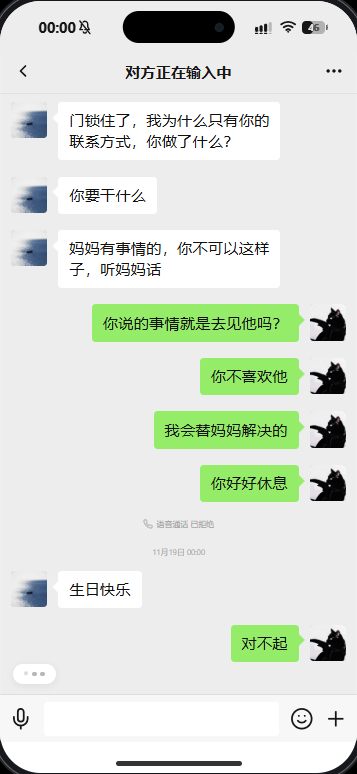
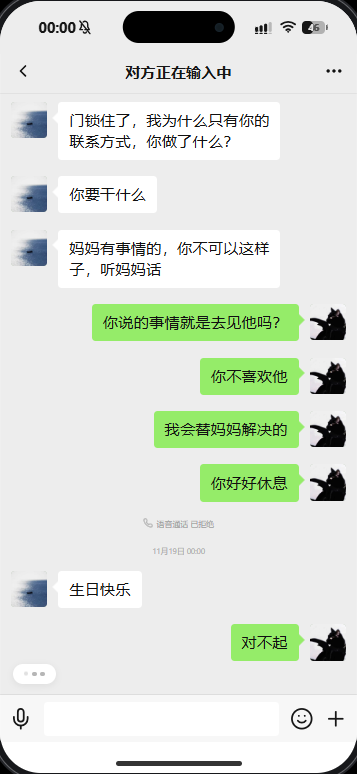
Keep moments out of the chat thread so left's first message stays the owner's
- the left moment shares its title with the chat, so once unlocked it rendered
  as the first bubble of the conversation; the thread now filters posts
- first message reads 2039-09-10 20:41, owner, 为什么不让我进去呢？

diff --git a/tests/finale.spec.ts b/tests/finale.spec.ts
@@ -91,6 +91,10 @@ test("finale flow: locked chat, new moment, midnight clock and scripted reply", 
   await page.getByRole("button", { name: "打开微信", exact: true }).click();
   await page.locator(".wx-chat-row").filter({ hasText: "left" }).click();
   await expect(page.locator(".skin-bubble").last()).toContainText("生日快乐");
+  // 会话第一条必须是机主 2039-09-10 发的那句，朋友圈内容不能混进聊天流
+  await expect(page.locator(".skin-bubble").first()).toContainText(
+    "为什么不让我进去呢？",
+  );
   const field = page.locator(".wx-finale-field");
   await expect(field).toBeVisible();
   await field.click();

diff --git a/src/AppSkins.tsx b/src/AppSkins.tsx
@@ -455,7 +455,12 @@ export function WeChatSkin(p: SkinProps) {
         <>
           <MessageList
             key={p.thread}
-            items={p.items.filter((i) => i.title === p.thread)}
+            items={p.items.filter(
+              (i) =>
+                i.title === p.thread &&
+                i.kind !== "post" &&
+                !["朋友圈", "我"].includes(i.folder),
+            )}
             creator={p.creator}
             onItem={p.onItem}
             onRead={p.onRead}
